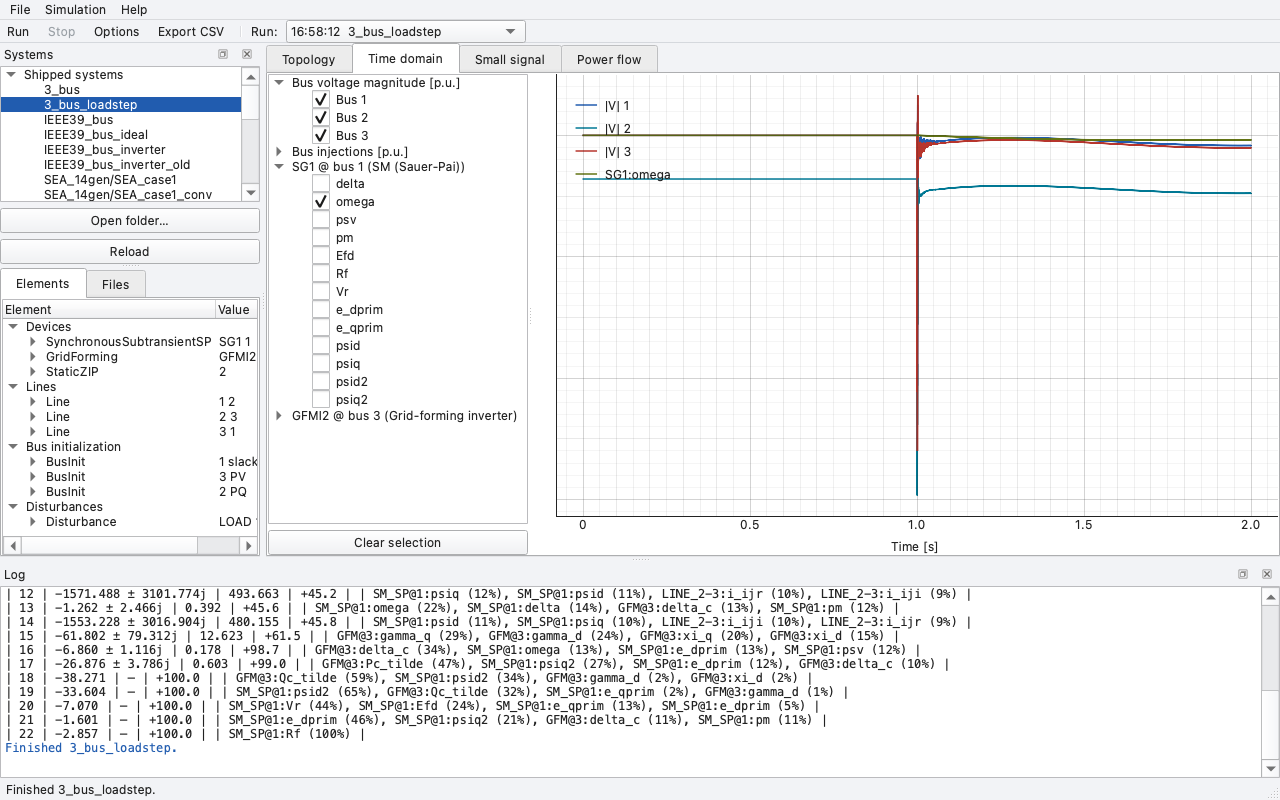
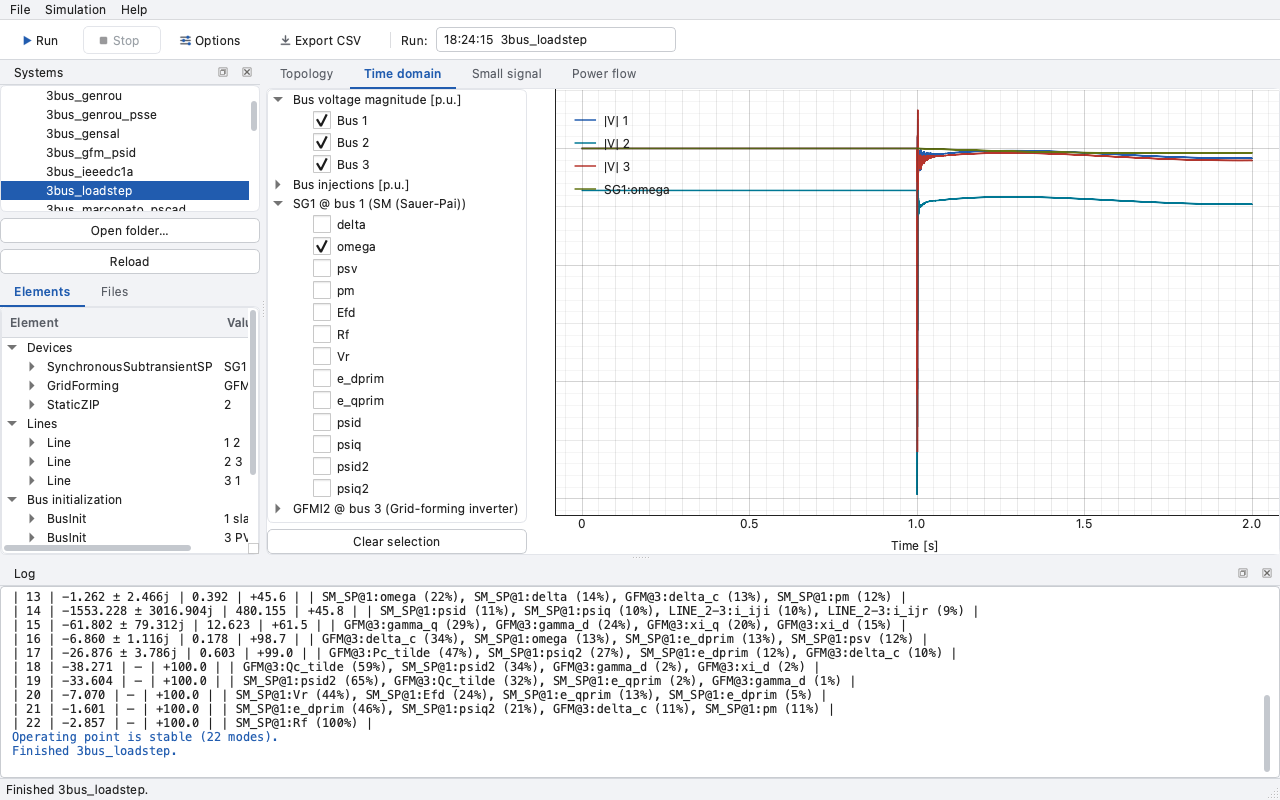
Refine the GUI's visual design
A complete stylesheet on top of the existing palette: underline-style
tabs, soft borders and radii, hover and focus states, flat toolbar
buttons, filled accent state for checked toggles (the active tool and the
Edit switch), slim scrollbars, styled headers, menus and dock titles. The
toolbar actions get small vector icons drawn in code, so no asset files
and no new dependencies. Purely cosmetic; the documentation screenshots
are regenerated to match.

diff --git a/hermess/gui/theme.py b/hermess/gui/theme.py
@@ -43,23 +43,180 @@ TEXT = "#222222"
 BACKGROUND = "#FFFFFF"
 PANEL = "#F2F3F6"
 BORDER = "#D5D8DD"
+BORDER_SOFT = "#E3E5EA"
 DISABLED = "#9AA0A6"
+HOVER = "#EDF2FA"  # a light tint of ETH Blue for hover states
+PRESSED = "#DDE7F5"
+MUTED = "#5A5E66"  # secondary text (dock titles, tab labels, group titles)
 
-# Accents only; all base coloring comes from the palette below.
+# The complete look: base colors come from the palette, everything visual
+# (borders, radii, hover/focus states) from this sheet. Purely cosmetic; no
+# rule may hide or resize a control in a way behavior depends on.
 _QSS = f"""
-QToolBar {{ border-bottom: 1px solid {BORDER}; spacing: 4px; }}
-QDockWidget::title {{ padding: 4px 8px; }}
+QMainWindow, QDialog {{ background: {PANEL}; }}
+
+/* Tabs: underline style instead of boxes. */
+QTabWidget::pane {{
+    border: 1px solid {BORDER_SOFT}; border-radius: 6px;
+    background: {BACKGROUND}; top: -1px;
+}}
+QTabBar::tab {{
+    background: transparent; border: none; color: {MUTED};
+    padding: 6px 14px; margin-right: 2px;
+    border-bottom: 2px solid transparent;
+}}
+QTabBar::tab:selected {{
+    color: {ETH_BLUE}; border-bottom: 2px solid {ETH_BLUE}; font-weight: 600;
+}}
+QTabBar::tab:hover:!selected {{ color: {TEXT}; }}
+
+/* Buttons. */
+QPushButton, QToolButton {{
+    background: {BACKGROUND}; border: 1px solid #C9CCD1;
+    border-radius: 5px; padding: 4px 12px;
+}}
+QPushButton:hover, QToolButton:hover {{
+    background: {HOVER}; border-color: #A9C3E4;
+}}
+QPushButton:pressed, QToolButton:pressed {{ background: {PRESSED}; }}
+QPushButton:disabled, QToolButton:disabled {{
+    color: {DISABLED}; background: {PANEL}; border-color: {BORDER_SOFT};
+}}
+QToolButton:checked, QPushButton:checked {{
+    background: {ETH_BLUE}; color: white; border-color: {ETH_BLUE};
+}}
+QToolButton::menu-indicator {{ image: none; }}
+
+/* Toolbar: flat buttons that light up on hover. */
+QToolBar {{
+    background: {BACKGROUND}; border-bottom: 1px solid {BORDER};
+    spacing: 4px; padding: 3px 6px;
+}}
+QToolBar QToolButton {{
+    background: transparent; border: 1px solid transparent; padding: 4px 10px;
+}}
+QToolBar QToolButton:hover {{ background: {HOVER}; border-color: {BORDER_SOFT}; }}
+QToolBar QToolButton:pressed {{ background: {PRESSED}; }}
+QToolBar QToolButton:disabled {{ background: transparent; }}
+
+/* Inputs. */
+QLineEdit, QComboBox, QPlainTextEdit, QTextEdit, QSpinBox, QDoubleSpinBox {{
+    background: {BACKGROUND}; border: 1px solid #C9CCD1;
+    border-radius: 4px; padding: 3px 7px;
+    selection-background-color: {ETH_BLUE}; selection-color: white;
+}}
+QLineEdit:focus, QComboBox:focus, QPlainTextEdit:focus, QTextEdit:focus {{
+    border-color: {ETH_BLUE};
+}}
+QLineEdit:disabled, QComboBox:disabled {{ background: {PANEL}; color: {DISABLED}; }}
+QComboBox::drop-down {{ border: none; width: 22px; }}
+
+/* Item views. */
+QTreeWidget, QTreeView, QTableWidget, QTableView, QListWidget {{
+    background: {BACKGROUND}; border: 1px solid {BORDER_SOFT};
+    border-radius: 6px; alternate-background-color: #F7F8FA;
+}}
+QHeaderView::section {{
+    background: {PANEL}; color: {MUTED}; font-weight: 600;
+    border: none; border-bottom: 1px solid {BORDER}; padding: 5px 8px;
+}}
+QTreeView::item, QListWidget::item {{ padding: 2px; }}
+
+/* Panels. */
+QDockWidget::title {{
+    background: {PANEL}; color: {MUTED}; font-weight: 600;
+    padding: 5px 10px; border-bottom: 1px solid {BORDER};
+}}
+QGroupBox {{
+    border: 1px solid {BORDER_SOFT}; border-radius: 6px;
+    margin-top: 10px; padding-top: 8px;
+}}
+QGroupBox::title {{
+    subcontrol-origin: margin; left: 10px; padding: 0 4px; color: {MUTED};
+}}
+QStatusBar {{ background: {PANEL}; border-top: 1px solid {BORDER}; }}
+QSplitter::handle {{ background: transparent; }}
+
+/* Context menus (the macOS menu bar itself stays native). */
+QMenu {{
+    background: {BACKGROUND}; border: 1px solid {BORDER};
+    border-radius: 6px; padding: 4px;
+}}
+QMenu::item {{ padding: 5px 24px 5px 12px; border-radius: 4px; }}
+QMenu::item:selected {{ background: {ETH_BLUE}; color: white; }}
+QMenu::separator {{ height: 1px; background: {BORDER_SOFT}; margin: 4px 8px; }}
+
+/* Slim scrollbars. */
+QScrollBar:vertical {{ background: transparent; width: 10px; margin: 2px; }}
+QScrollBar:horizontal {{ background: transparent; height: 10px; margin: 2px; }}
+QScrollBar::handle {{ background: #C4C8CE; border-radius: 3px; }}
+QScrollBar::handle:hover {{ background: #A8ADB5; }}
+QScrollBar::handle:vertical {{ min-height: 30px; }}
+QScrollBar::handle:horizontal {{ min-width: 30px; }}
+QScrollBar::add-line, QScrollBar::sub-line {{ width: 0; height: 0; }}
+QScrollBar::add-page, QScrollBar::sub-page {{ background: transparent; }}
+
 QProgressBar {{
-    border: 1px solid {BORDER}; border-radius: 2px; background: {PANEL};
+    border: 1px solid {BORDER}; border-radius: 5px; background: {PANEL};
     height: 12px; text-align: center; font-size: 10px;
 }}
-QProgressBar::chunk {{ background: {ETH_BLUE}; }}
+QProgressBar::chunk {{ background: {ETH_BLUE}; border-radius: 4px; }}
 """
 
 
 def series_color(i: int) -> str:
     """Color of the i-th plot series (cycles through the ETH order)."""
     return SERIES[i % len(SERIES)]
+
+
+_ICONS: dict = {}
+
+
+def icon(name: str):
+    """Small vector icons drawn in code (no asset files): 'run', 'stop',
+    'options', 'export'. Cached; requires a running QApplication."""
+    from PySide6.QtCore import QPointF, QRectF, Qt
+    from PySide6.QtGui import QColor, QIcon, QPainter, QPen, QPixmap, QPolygonF
+
+    if name in _ICONS:
+        return _ICONS[name]
+    pixmap = QPixmap(32, 32)
+    pixmap.fill(Qt.transparent)
+    painter = QPainter(pixmap)
+    painter.setRenderHint(QPainter.Antialiasing)
+    line_pen = QPen(QColor(MUTED), 3)
+    line_pen.setCapStyle(Qt.RoundCap)
+
+    if name == "run":
+        painter.setPen(Qt.NoPen)
+        painter.setBrush(QColor(ETH_BLUE))
+        painter.drawPolygon(
+            QPolygonF([QPointF(10, 6), QPointF(10, 26), QPointF(27, 16)])
+        )
+    elif name == "stop":
+        painter.setPen(Qt.NoPen)
+        painter.setBrush(QColor(ETH_RED))
+        painter.drawRoundedRect(QRectF(8, 8, 16, 16), 3, 3)
+    elif name == "options":
+        # Three slider rails with knobs.
+        painter.setPen(line_pen)
+        knobs = [(9, 21), (16, 12), (23, 24)]
+        for y, _x in knobs:
+            painter.drawLine(6, y, 26, y)
+        painter.setPen(Qt.NoPen)
+        painter.setBrush(QColor(ETH_BLUE))
+        for y, x in knobs:
+            painter.drawEllipse(QPointF(x, y), 3.4, 3.4)
+    elif name == "export":
+        # An arrow into a tray.
+        painter.setPen(line_pen)
+        painter.drawLine(16, 6, 16, 18)
+        painter.drawLine(10, 13, 16, 19)
+        painter.drawLine(22, 13, 16, 19)
+        painter.drawLine(7, 24, 25, 24)
+    painter.end()
+    _ICONS[name] = QIcon(pixmap)
+    return _ICONS[name]
 
 
 def _light_palette():

diff --git a/hermess/gui/main_window.py b/hermess/gui/main_window.py
@@ -25,7 +25,7 @@ import json
 import logging
 from pathlib import Path
 
-from PySide6.QtCore import QSettings, Qt, QUrl
+from PySide6.QtCore import QSettings, QSize, Qt, QUrl
 from PySide6.QtGui import QAction, QDesktopServices, QKeySequence
 from PySide6.QtWidgets import (
     QComboBox,
@@ -39,7 +39,7 @@ from PySide6.QtWidgets import (
 )
 
 import hermess
-from hermess.gui import export, sysparse, validation
+from hermess.gui import export, sysparse, theme, validation
 from hermess.gui.sysdoc import SystemDocument
 from hermess.gui.logpanel import LogPanel
 from hermess.gui.options_dialog import OptionsDialog
@@ -148,9 +148,16 @@ class MainWindow(QMainWindow):
         help_menu.addAction(docs_action)
         help_menu.addAction(about_action)
 
+        self._run_action.setIcon(theme.icon("run"))
+        self._stop_action.setIcon(theme.icon("stop"))
+        options_action.setIcon(theme.icon("options"))
+        export_action.setIcon(theme.icon("export"))
+
         toolbar = self.addToolBar("Main")
         toolbar.setObjectName("mainToolbar")
         toolbar.setMovable(False)
+        toolbar.setToolButtonStyle(Qt.ToolButtonTextBesideIcon)
+        toolbar.setIconSize(QSize(15, 15))
         toolbar.addAction(self._run_action)
         toolbar.addAction(self._stop_action)
         toolbar.addAction(options_action)
